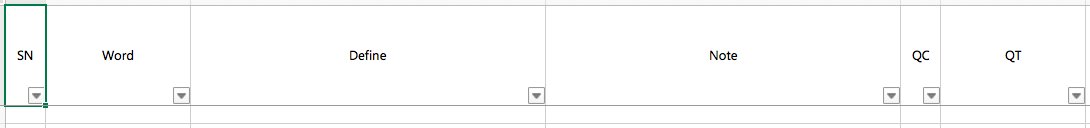
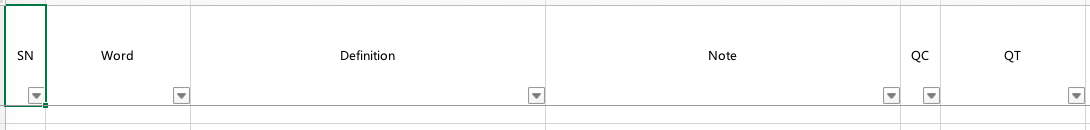
Update.

diff --git a/query.go b/query.go
@@ -13,7 +13,7 @@ import (
 const (
 	// title in .xlsx file
 	wd  = "Word"
-	def = "Define"
+	def = "Definition"
 	sn  = "SN"
 	qc  = "QC"
 	qt  = "QT"

diff --git a/README.zh-Hans.md b/README.zh-Hans.md
@@ -39,7 +39,7 @@ MYDICTIONARY目前提供下列*在线服务*：
 所以符合下列条件“.xlsx”文件都能够作为 ***生词本文件*** 或 ***离线词典文件*** 。
 
 - 至少包含一个工作表。
-- 第一个工作表的首行包含下列单元格：“SN”（序号）、“Word”（词汇）、“Define”（释义）、“Note”（笔记）、“QC”（查询次数）和“QT”（上次查询时间）。
+- 第一个工作表的首行包含下列单元格：“SN”（序号）、“Word”（词汇）、“Definition”（释义）、“Note”（笔记）、“QC”（查询次数）和“QT”（上次查询时间）。
 
 例如：
 

diff --git a/README.md b/README.md
@@ -39,7 +39,7 @@ Dictionary applications need files to store words and definitions. As far as I k
 All ".xlsx" files which march the following conditions could become ***collection files*** or ***dictionary files***.
 
 - Contain at least one worksheet.
-- In the first worksheet, cells of the first line should contain: "SN" (serial number), "Word", "Define", "Note", "QC" (query counter) and "QT" (last query time).
+- In the first worksheet, cells of the first line should contain: "SN" (serial number), "Word", "Definition", "Note", "QC" (query counter) and "QT" (last query time).
 
 Here are examples:
 
